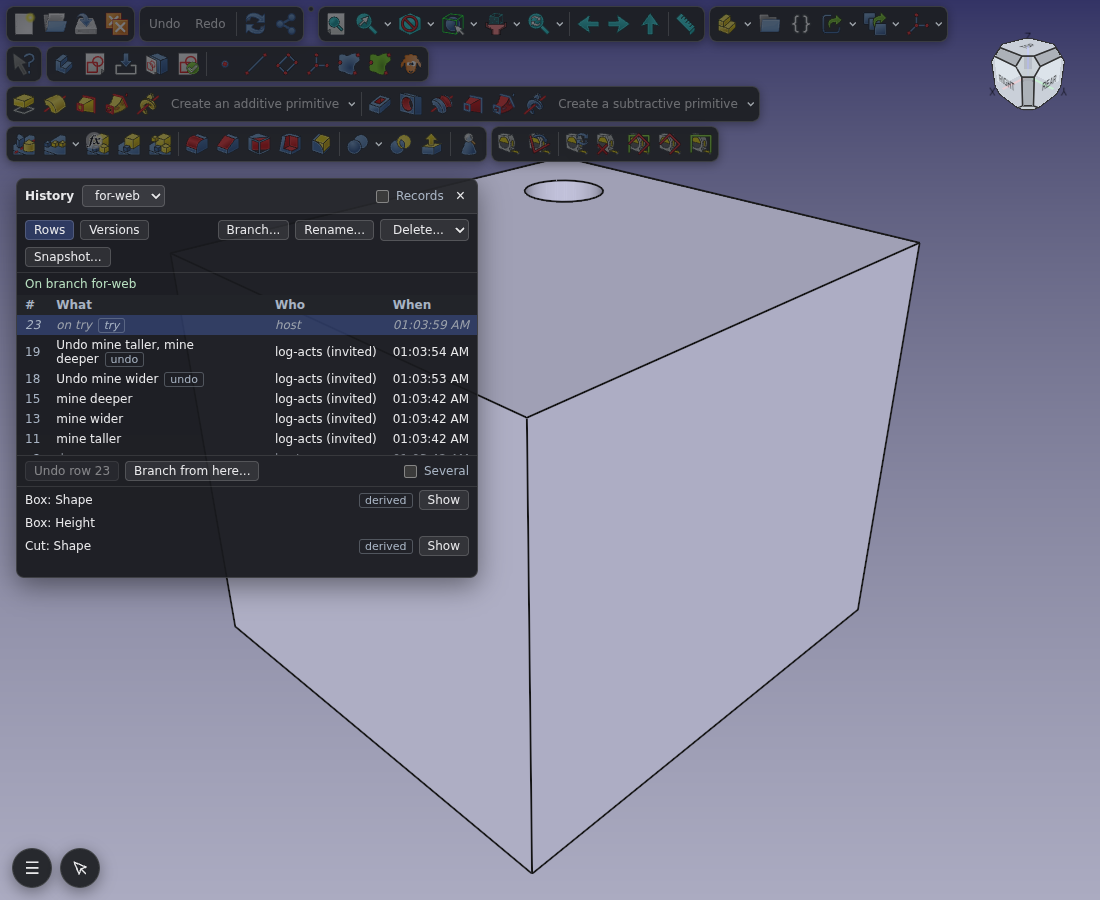
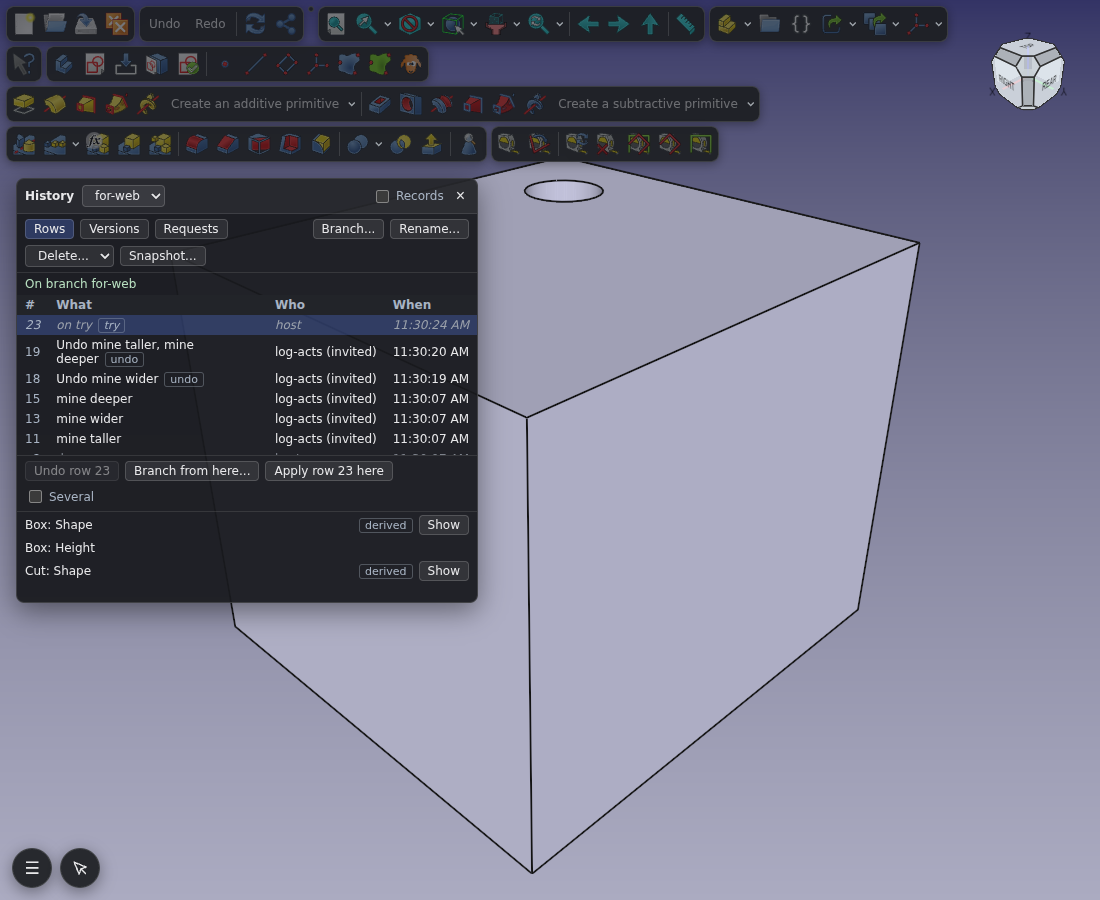
Docs: the guide's pictures of access by branch and of merges asked for
The History card's Requests list and Apply row N here, taken by the
browser drive (LOGACTS_SHOTS); the desktop's Access dialog and an asked
merge's menu, taken by transaction-log-guide-shots.py. The two older
pictures of the card are taken again: it has a third list now.

Claude-Session: https://claude.ai/code/session_01JMUBeWJysnNX6WPy6aJkex

Changed region(s): [[0.0, 0.3733, 0.4327, 0.6844], [0.0309, 0.2489, 0.2473, 0.3111], [0.2782, 0.2489, 0.4327, 0.28]]

diff --git a/scripts/logacts-drive.js b/scripts/logacts-drive.js
@@ -297,6 +297,7 @@ async function answer(page, text) {
     await sleep(300);
     out.applySays = await page.evaluate(() => window.__fcActSays('apply'));
     out.applyUndoSays = await page.evaluate(() => window.__fcActSays('undo'));
+    await shot(page, 'apply');
     out.applyAsked = await page.evaluate(() => window.__fcClickAct('apply'));
     await waitFor(page, () => /applied/.test((window.__fcStatus() || {}).text || ''), 30000);
     out.applySaid = await page.evaluate(() => window.__fcStatus());

diff --git a/scripts/transaction-log-guide-shots.py b/scripts/transaction-log-guide-shots.py
@@ -70,6 +70,21 @@ def shot(name, *widgets):
     said.append("%s %dx%d" % (name, pix.width(), pix.height()))
 
 
+def shotWidget(name, widget):
+    """A window as it draws itself: no other window's pixels at its edges."""
+    settle()
+    path = os.path.join(OUT, name + ".png")
+    pix = widget.grab()
+    pix.save(path)
+    try:
+        from PIL import Image
+
+        Image.open(path).convert("RGB").quantize(colors=256).save(path, optimize=True)
+    except Exception:
+        pass
+    said.append("%s %dx%d" % (name, pix.width(), pix.height()))
+
+
 def part(of, name):
     for w in of.findChildren(QtWidgets.QWidget):
         if w.objectName() == name:
@@ -376,6 +391,67 @@ def run():
         QtCore.QMetaObject.invokeMethod(dock, "mergeBranch", QtCore.Qt.DirectConnection,
                                         QtCore.Q_ARG(str, "side"))
         settle()
+
+        # 17: who may what of a branch, and a merge someone asked for
+        # (docs/TransactionLog.md sec 32.25). Two who came to the document
+        # and wrote a row each are users the log knows.
+        for kind, name, prop, value in (("invited", "bob", "Width", 22),
+                                        ("verified", "ann@example.com", "Height", 19)):
+            doc.pushTransactionActor(kind, name)
+            try:
+                doc.openTransaction("%s: %s" % (name, prop.lower()))
+                setattr(box, prop, value)
+                doc.recompute()
+                doc.commitTransaction()
+            finally:
+                doc.popTransactionActor()
+        doc.setTransactionAccess("invited", "bob", "side")
+        doc.setTransactionAccess("verified", "ann@example.com", "main", True, released)
+        doc.pushTransactionActor("invited", "bob")
+        try:
+            doc.requestTransactionMerge("side", "main", "the longer box, please")
+        finally:
+            doc.popTransactionActor()
+        settle()
+        wait(0.5)
+
+        def grabAccess():
+            dialog = QtWidgets.QApplication.activeModalWidget()
+            if dialog is None or dialog.objectName() != "TransactionAccessDialog":
+                said.append("access: no dialog")
+                if dialog is not None:
+                    dialog.reject()
+                return
+            dialog.setGeometry(420, 300, 660, 300)
+            level = part(dialog, "TransactionAccessLevel")
+            level.setCurrentIndex(1)
+            where = part(dialog, "TransactionAccessBranch")
+            where.setCurrentIndex(where.findText("main"))
+            start = part(dialog, "TransactionAccessFrom")
+            start.setCurrentIndex(start.findData(released))
+            wait(0.5)
+            shotWidget("17-access", dialog)
+            dialog.accept()
+
+        QtCore.QTimer.singleShot(700, grabAccess)
+        part(dock, "TransactionAccess").click()
+        settle()
+        requests = part(dock, "TransactionRequests")
+        asked = None
+        for i in range(requests.topLevelItemCount()):
+            if requests.topLevelItem(i).text(0) == "merge side into main":
+                asked = requests.topLevelItem(i)
+        if asked is not None:
+            # The panel put back at the bottom of the window: the merge's
+            # preview, beside it, leaves it out of the window's area
+            if isinstance(dock.parentWidget(), QtWidgets.QDockWidget):
+                mw.addDockWidget(QtCore.Qt.BottomDockWidgetArea, dock.parentWidget())
+            panel()
+            wait(0.5)
+            requests.setCurrentItem(asked)
+            withMenu("17-asked-merge-menu", requests, asked, tabs, requests)
+        else:
+            said.append("asked merge: not listed")
     except Exception:
         said.append(traceback.format_exc())
     with open(os.path.join(OUT, "shots.txt"), "w") as f:

diff --git a/docs/TransactionLogGuide.md b/docs/TransactionLogGuide.md
@@ -497,6 +497,8 @@ above the tabs. It is hidden while there are none.
   someone connected to the shared document, section 12) for: *Merge...*,
   when the document is on the branch it goes into, and *Reject*.
 
+![A merge someone asked for, and its menu](images/transaction-log/17-asked-merge-menu.png)
+
 The Conflicts column says how many conflicts a merge would have, before you
 open it. It is empty for a merge that was asked for: its preview says.
 
@@ -577,6 +579,8 @@ list too: you read it.
 **A branch you read and are not on.** Its steps are in the list in
 italics, with its name. Two things can be done with it:
 
+![A step of another branch, and Apply row N here](images/transaction-log/15-log-browser-apply.png)
+
 - **Take a step of it.** Click the step, then **Apply row N here**: what
   that step set is written to the branch you are on, as one step of your
   own, which undo takes back. Several at once as for undo. Where a step
@@ -588,6 +592,8 @@ italics, with its name. Two things can be done with it:
   must be branches you read. This is how the work you did in a branch
   served to you goes back: ask for your branch to be merged into the
   sharer's.
+
+![The Requests list: a merge asked for, with its note](images/transaction-log/15-log-browser-requests.png)
 
 A request stays in the list, open ones first, with who asked and when,
 and the number of open ones is in the list's name. Click one to act on
@@ -612,6 +618,8 @@ A merge that meets conflicts asks the same one question.
   document they joined and write a branch that was served to them, as
   described above; a line here is in place of that, so a served branch can
   be made read only for one person.
+
+  ![Access: who reads or writes which branch, and from where](images/transaction-log/17-access.png)
 - **The merges asked for** are in the panel's request list (section 11),
   beside the files that were sent: *merge A into B*, who asked, the note.
   Double-click one, or **Merge...** in its menu, to open the merge's
